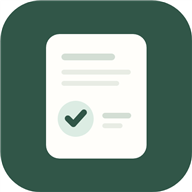
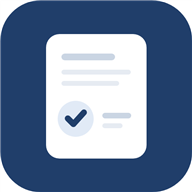
Use navy app theme and mobile bottom navigation

diff --git a/styles.css b/styles.css
@@ -1,42 +1,42 @@
 :root {
     color-scheme: light;
-    --page: #f6f5f1;
-    --surface: #fffefa;
-    --surface-soft: #f2f0e9;
+    --page: #f3f6fa;
+    --surface: #ffffff;
+    --surface-soft: #eef2f7;
     --surface-raised: #ffffff;
-    --ink: #282f2b;
-    --muted: #65716a;
-    --line: #d9ddd5;
-    --accent: #456d60;
-    --accent-strong: #315648;
-    --accent-soft: #dcece3;
-    --present: #386e53;
-    --present-bg: #d8ebdd;
-    --absent: #a34f57;
-    --absent-bg: #f4dfe1;
-    --excused: #926b35;
-    --excused-bg: #f3e8d2;
-    --shadow: 0 12px 32px rgba(39, 48, 42, .055);
+    --ink: #18263c;
+    --muted: #627187;
+    --line: #dbe3ed;
+    --accent: #375b91;
+    --accent-strong: #203e6a;
+    --accent-soft: #e1eaf6;
+    --present: #286452;
+    --present-bg: #dceee8;
+    --absent: #985260;
+    --absent-bg: #f4e3e7;
+    --excused: #876636;
+    --excused-bg: #f4ecdb;
+    --shadow: 0 12px 32px rgba(25, 49, 85, .055);
 }
 
 body.dark-theme {
     color-scheme: dark;
-    --page: #1d2422;
-    --surface: #29322e;
-    --surface-soft: #333e38;
-    --surface-raised: #303a35;
-    --ink: #f1f3ed;
-    --muted: #b8c3b9;
-    --line: #48544c;
-    --accent: #a9cbbb;
-    --accent-strong: #c5ddcf;
-    --accent-soft: #3b5748;
-    --present: #c2e9cb;
-    --present-bg: #375d45;
+    --page: #111a2a;
+    --surface: #192438;
+    --surface-soft: #222f45;
+    --surface-raised: #1e2b40;
+    --ink: #eef3fa;
+    --muted: #b3c1d2;
+    --line: #38465e;
+    --accent: #a9c4e9;
+    --accent-strong: #d3e3f7;
+    --accent-soft: #2c4366;
+    --present: #c2e9d4;
+    --present-bg: #31584d;
     --absent: #f0b7bd;
-    --absent-bg: #674149;
+    --absent-bg: #634454;
     --excused: #f1d4a2;
-    --excused-bg: #665640;
+    --excused-bg: #62543f;
     --shadow: 0 12px 32px rgba(0, 0, 0, .16);
 }
 
@@ -65,7 +65,8 @@ header h1 { margin: 0; color: var(--ink); font-size: clamp(17px, 2.4vw, 22px); f
 .switch input:focus-visible + .slider { outline: 3px solid var(--accent); outline-offset: 2px; border-radius: 12px; }
 
 .tabs { display: grid; grid-template-columns: repeat(5, minmax(0, 1fr)); gap: 4px; padding: 6px 10px; background: var(--surface); border: 1px solid var(--line); border-top: 0; }
-.tab-btn { min-width: 0; min-height: 44px; padding: 9px 6px; border: 0; border-radius: 10px; background: transparent; color: var(--muted); font-size: 13px; font-weight: 650; line-height: 1.15; text-align: center; }
+.tab-btn { display: flex; align-items: center; justify-content: center; gap: 7px; min-width: 0; min-height: 44px; padding: 9px 6px; border: 0; border-radius: 10px; background: transparent; color: var(--muted); font-size: 13px; font-weight: 650; line-height: 1.15; text-align: center; }
+.tab-icon { flex: 0 0 18px; width: 18px; height: 18px; }
 .tab-btn:hover { background: var(--surface-soft); color: var(--ink); }
 .tab-btn.active { background: var(--accent-soft); color: var(--accent-strong); }
 .tab-content { display: none; min-height: 450px; padding: 24px; border: 1px solid var(--line); border-top: 0; border-radius: 0 0 20px 20px; background: var(--surface-soft); }
@@ -176,7 +177,7 @@ textarea { display: block; min-height: 110px; resize: vertical; }
 #install-app[hidden] { display: none; }
 
 @media (max-width: 700px) {
-    body { padding-bottom: env(safe-area-inset-bottom); }
+    body { padding-bottom: calc(65px + env(safe-area-inset-bottom)); }
     .container { width: 100%; min-height: 100dvh; margin: 0; }
     header { min-height: 76px; padding: max(14px, env(safe-area-inset-top)) 17px 14px; border: 0; border-bottom: 1px solid var(--line); border-radius: 0; }
     .brand { gap: 10px; }
@@ -184,9 +185,10 @@ textarea { display: block; min-height: 110px; resize: vertical; }
     header h1 { max-width: 230px; font-size: 16px; }
     .eyebrow { font-size: 9px; }
     .theme-switcher { width: 36px; height: 36px; border-radius: 10px; }
-    .tabs { position: sticky; top: 0; z-index: 5; gap: 2px; padding: 6px 5px; border: 0; border-bottom: 1px solid var(--line); }
-    .tab-btn { min-height: 46px; padding: 5px 2px; font-size: clamp(10px, 2.6vw, 12px); overflow-wrap: anywhere; }
-    .tab-content { min-height: calc(100dvh - 129px); padding: 14px; border: 0; border-radius: 0; }
+    .tabs { position: fixed; inset: auto 0 0; z-index: 10; gap: 2px; padding: 5px 5px calc(5px + env(safe-area-inset-bottom)); border: 0; border-top: 1px solid var(--line); box-shadow: 0 -8px 24px rgba(20, 38, 67, .08); }
+    .tab-btn { flex-direction: column; gap: 2px; min-height: 54px; padding: 5px 2px; font-size: clamp(10px, 2.6vw, 12px); overflow-wrap: anywhere; }
+    .tab-icon { flex-basis: 19px; width: 19px; height: 19px; }
+    .tab-content { min-height: calc(100dvh - 76px); padding: 14px; border: 0; border-radius: 0; }
     .card { padding: 17px; border-radius: 14px; }
     .card h2 { font-size: 18px; }
     .attendance-header { flex-direction: column; align-items: flex-start; }

diff --git a/index.html b/index.html
@@ -6,12 +6,12 @@
     <meta name="mobile-web-app-capable" content="yes">
     <meta name="apple-mobile-web-app-capable" content="yes">
     <meta name="apple-mobile-web-app-status-bar-style" content="default">
-    <meta name="theme-color" content="#f6f5f1">
-    <link rel="manifest" href="manifest.json">
-    <link rel="icon" href="icons/app-icon.svg" type="image/svg+xml">
-    <link rel="apple-touch-icon" href="icons/icon-192x192.png">
+    <meta name="theme-color" content="#f3f6fa">
+    <link rel="manifest" href="manifest.json?v=4">
+    <link rel="icon" href="icons/app-icon.svg?v=4" type="image/svg+xml">
+    <link rel="apple-touch-icon" href="icons/icon-192x192.png?v=4">
     <title>Gölbaşı Yoklama</title>
-    <link rel="stylesheet" href="styles.css">
+    <link rel="stylesheet" href="styles.css?v=4">
 </head>
 <body>
     <div class="container">
@@ -34,11 +34,11 @@
         </header>
 
         <nav class="tabs" aria-label="Ana menü">
-            <button class="tab-btn" onclick="showTab('students', this)"><span>Öğrenciler</span></button>
-            <button class="tab-btn active" onclick="showTab('attendance', this)"><span>Yoklama</span></button>
-            <button class="tab-btn" onclick="showTab('history', this)"><span>Geçmiş</span></button>
-            <button class="tab-btn" onclick="showTab('statistics', this)"><span>İstatistikler</span></button>
-            <button class="tab-btn" onclick="showTab('settings', this)"><span>Ayarlar</span></button>
+            <button class="tab-btn" onclick="showTab('students', this)"><svg class="tab-icon" viewBox="0 0 24 24" fill="none" stroke="currentColor" stroke-width="1.8" stroke-linecap="round" aria-hidden="true"><circle cx="12" cy="8" r="3"/><path d="M5.5 20v-2a6.5 6.5 0 0 1 13 0v2"/></svg><span>Öğrenciler</span></button>
+            <button class="tab-btn active" onclick="showTab('attendance', this)"><svg class="tab-icon" viewBox="0 0 24 24" fill="none" stroke="currentColor" stroke-width="1.8" stroke-linecap="round" stroke-linejoin="round" aria-hidden="true"><rect x="4" y="4" width="16" height="16" rx="3"/><path d="m8 12 3 3 5-6"/></svg><span>Yoklama</span></button>
+            <button class="tab-btn" onclick="showTab('history', this)"><svg class="tab-icon" viewBox="0 0 24 24" fill="none" stroke="currentColor" stroke-width="1.8" stroke-linecap="round" stroke-linejoin="round" aria-hidden="true"><circle cx="12" cy="12" r="8"/><path d="M12 7v5l3 2"/></svg><span>Geçmiş</span></button>
+            <button class="tab-btn" onclick="showTab('statistics', this)"><svg class="tab-icon" viewBox="0 0 24 24" fill="none" stroke="currentColor" stroke-width="1.8" stroke-linecap="round" aria-hidden="true"><path d="M5 20v-7M10 20V7M15 20v-9M20 20V4"/></svg><span>İstatistikler</span></button>
+            <button class="tab-btn" onclick="showTab('settings', this)"><svg class="tab-icon" viewBox="0 0 24 24" fill="none" stroke="currentColor" stroke-width="1.8" stroke-linecap="round" aria-hidden="true"><path d="M4 7h16M4 17h16M9 4v6M16 14v6"/></svg><span>Ayarlar</span></button>
         </nav>
 
         <!-- Öğrenci Yönetimi Sekmesi -->
@@ -230,7 +230,7 @@
         </div>
     </div>
 
-    <script src="script.js"></script>
+    <script src="script.js?v=4"></script>
 </body>
 </html>
 

diff --git a/service-worker.js b/service-worker.js
@@ -1,12 +1,12 @@
-const CACHE_NAME = 'golbasi-yoklama-v2';
+const CACHE_NAME = 'golbasi-yoklama-v4';
 const APP_SHELL = [
     './',
     './index.html',
-    './styles.css',
-    './script.js',
-    './manifest.json',
-    './icons/icon-192x192.png',
-    './icons/icon-512x512.png'
+    './styles.css?v=4',
+    './script.js?v=4',
+    './manifest.json?v=4',
+    './icons/icon-192x192.png?v=4',
+    './icons/icon-512x512.png?v=4'
 ];
 
 self.addEventListener('install', event => {

diff --git a/script.js b/script.js
@@ -1513,7 +1513,7 @@ function saveTheme(theme) {
 }
 
 function updateThemeColor(isDark) {
-    document.querySelector('meta[name="theme-color"]').content = isDark ? '#1d2422' : '#f6f5f1';
+    document.querySelector('meta[name="theme-color"]').content = isDark ? '#111a2a' : '#f3f6fa';
 }
 
 function setupThemeToggle() {
